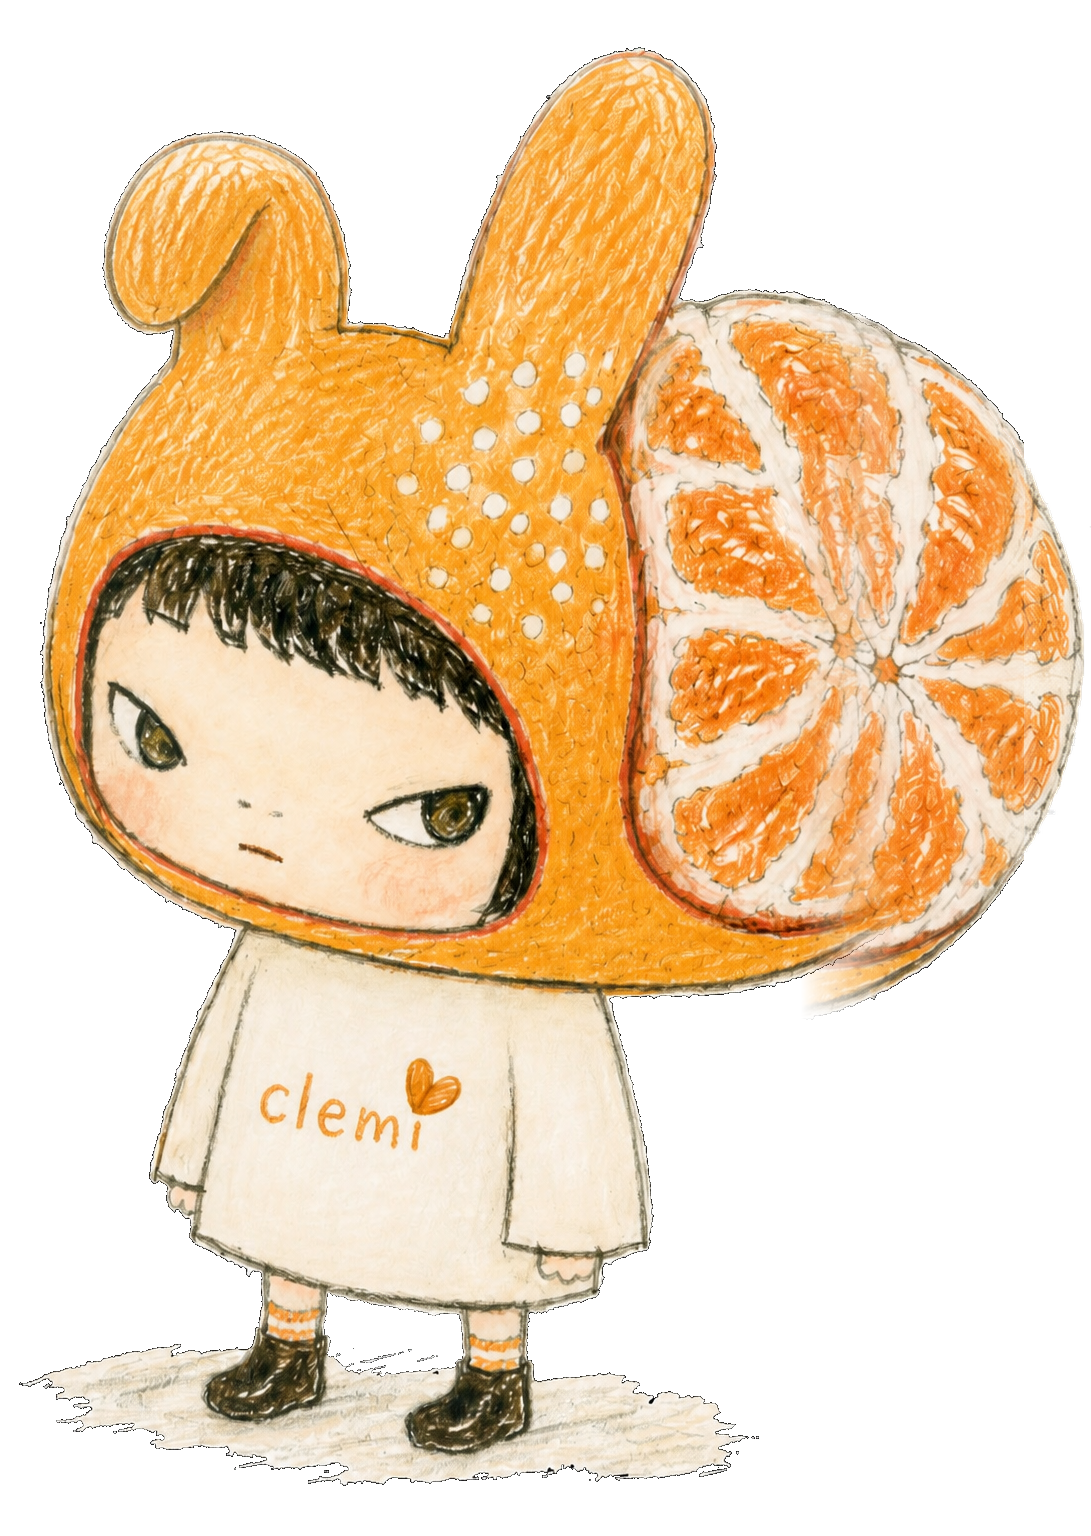
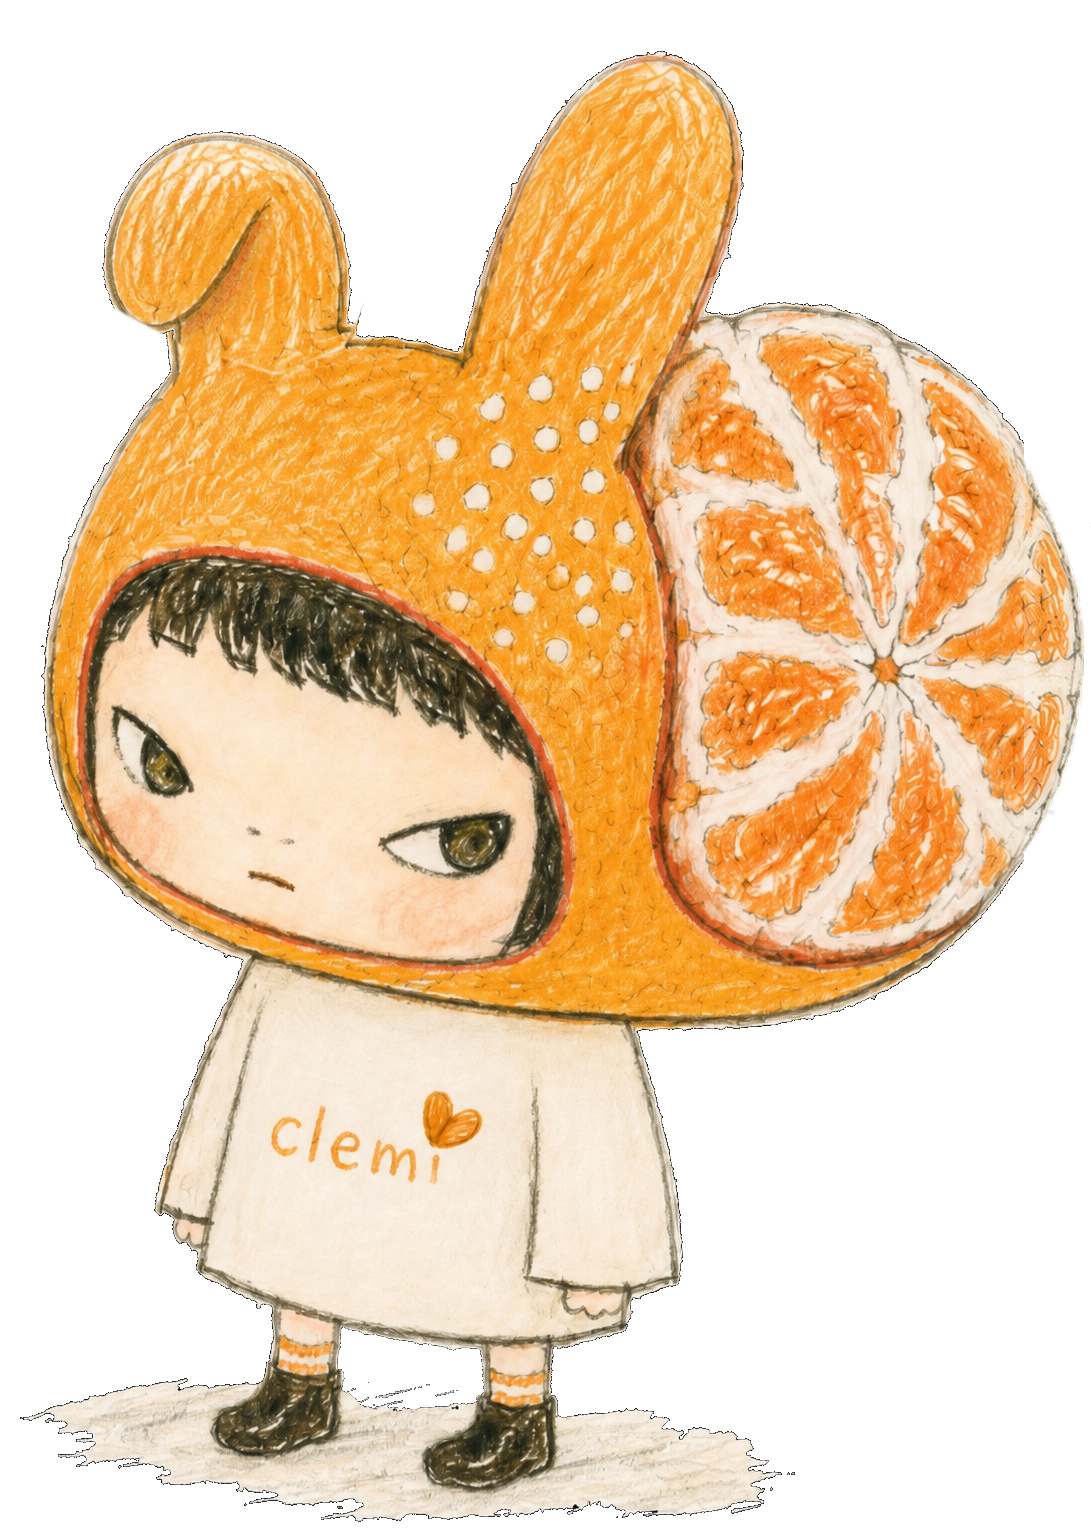
Add subtle Clemi expressions

diff --git a/components/Clemi.tsx b/components/Clemi.tsx
@@ -6,9 +6,13 @@ const POSES = [
   { id: "still", src: "/clemi/still.png" },
   { id: "blep", src: "/clemi/blep.png" },
   { id: "smile", src: "/clemi/smile.png" },
+  { id: "wink", src: "/clemi/wink.png" },
+  { id: "eyes-closed", src: "/clemi/eyes-closed.png" },
   { id: "eyes-left", src: "/clemi/eyes-left.png" },
-  { id: "eye-roll", src: "/clemi/eye-roll.png" },
+  { id: "eyes-up", src: "/clemi/eyes-up.png" },
   { id: "ear-flop", src: "/clemi/ear-flop.png" },
+  { id: "fangs", src: "/clemi/fangs.png" },
+  { id: "puff", src: "/clemi/puff.png" },
   { id: "fist", src: "/clemi/fist.png" },
   { id: "peace", src: "/clemi/peace.png" },
   { id: "raspberry", src: "/clemi/raspberry.png" },
